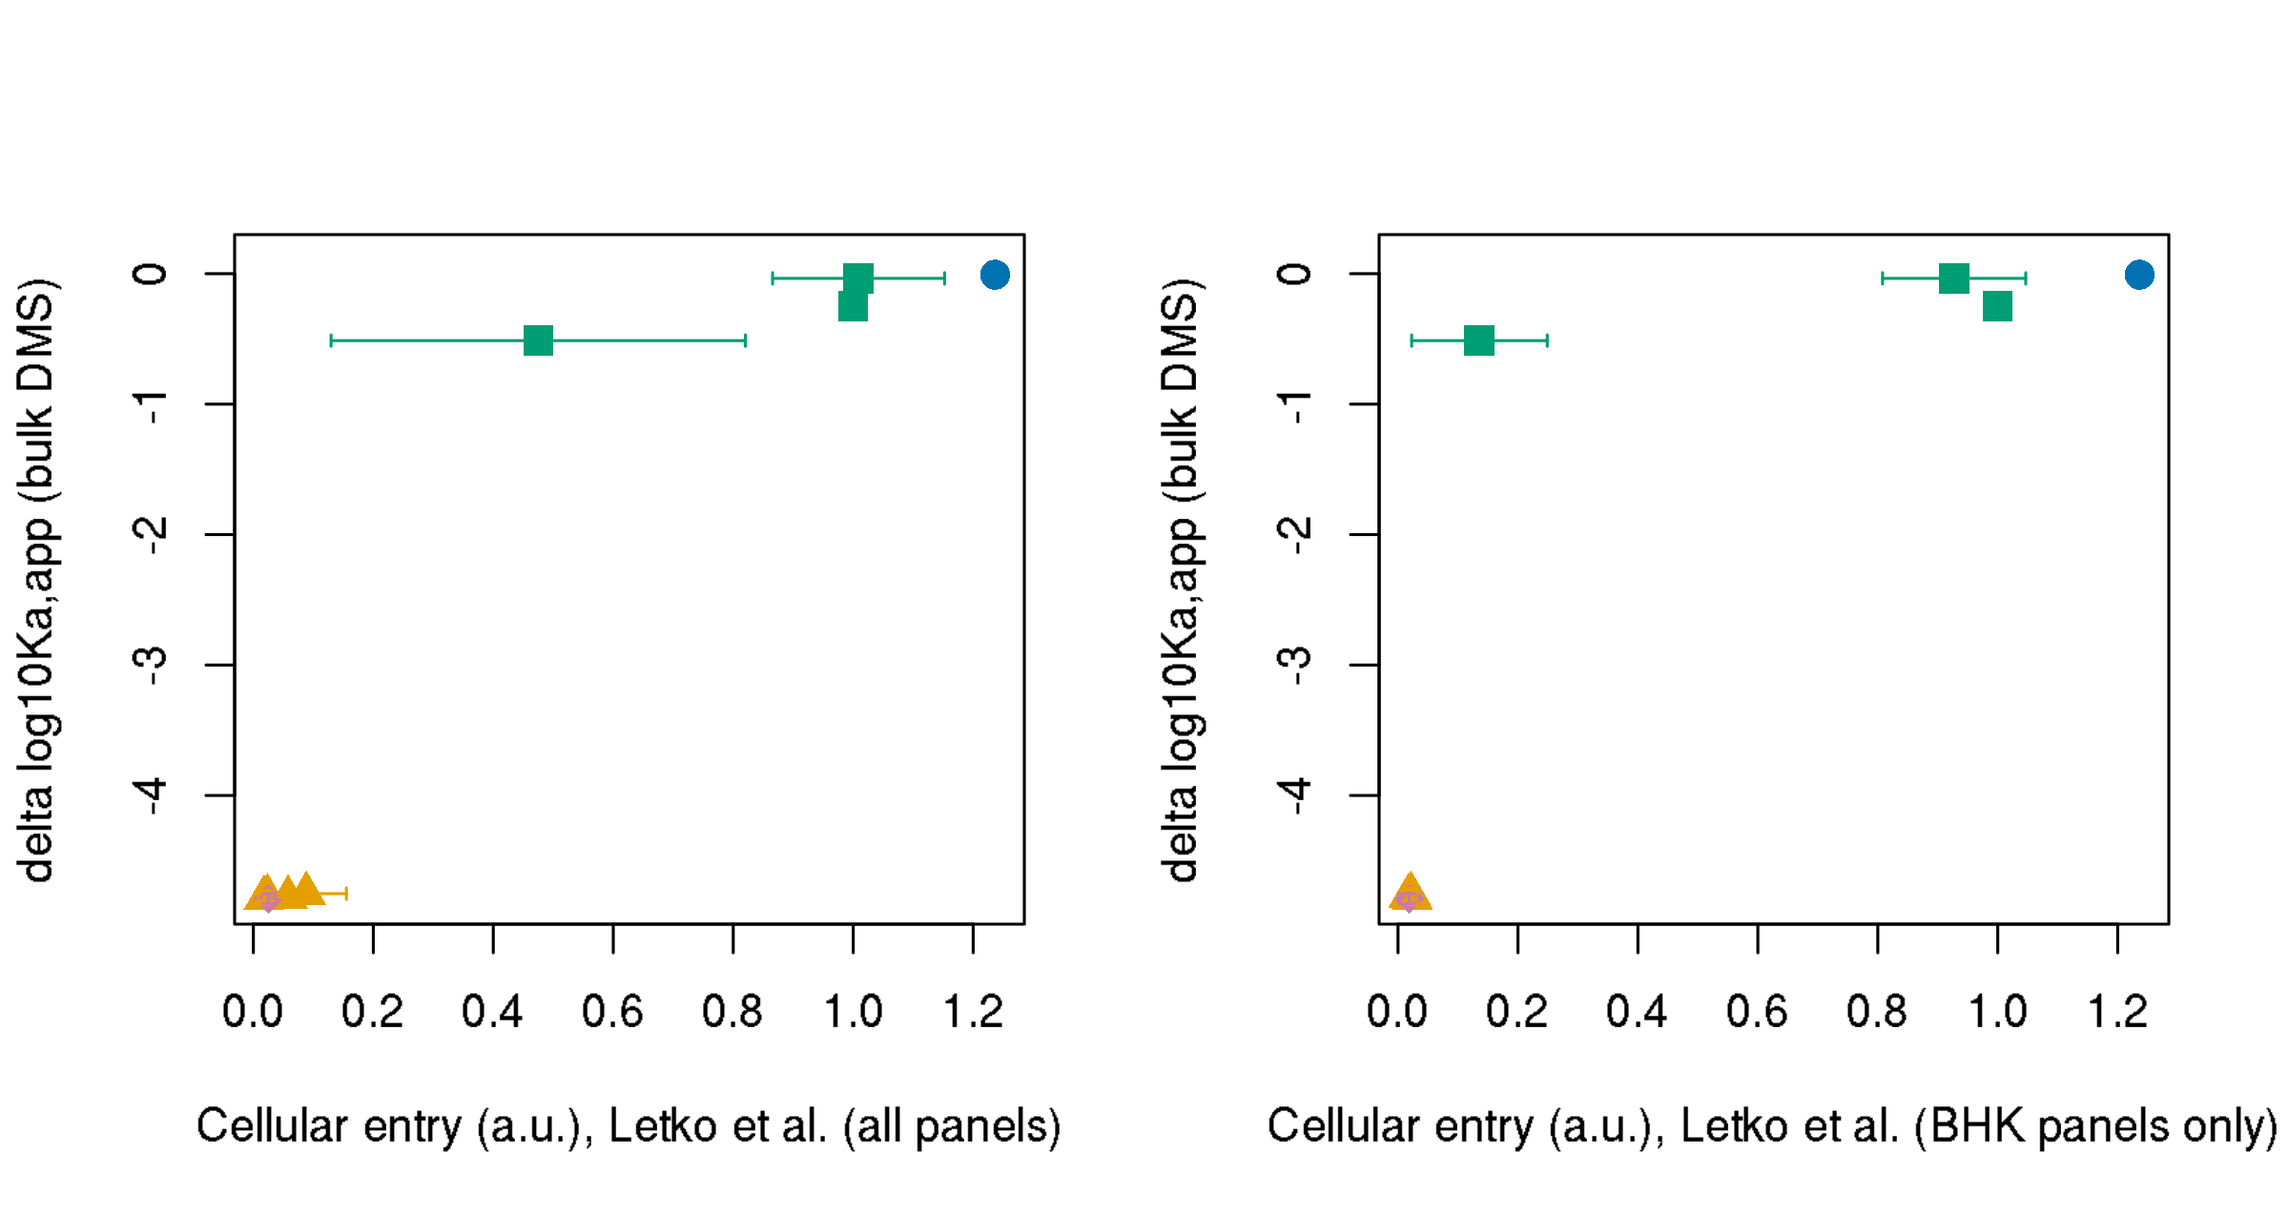
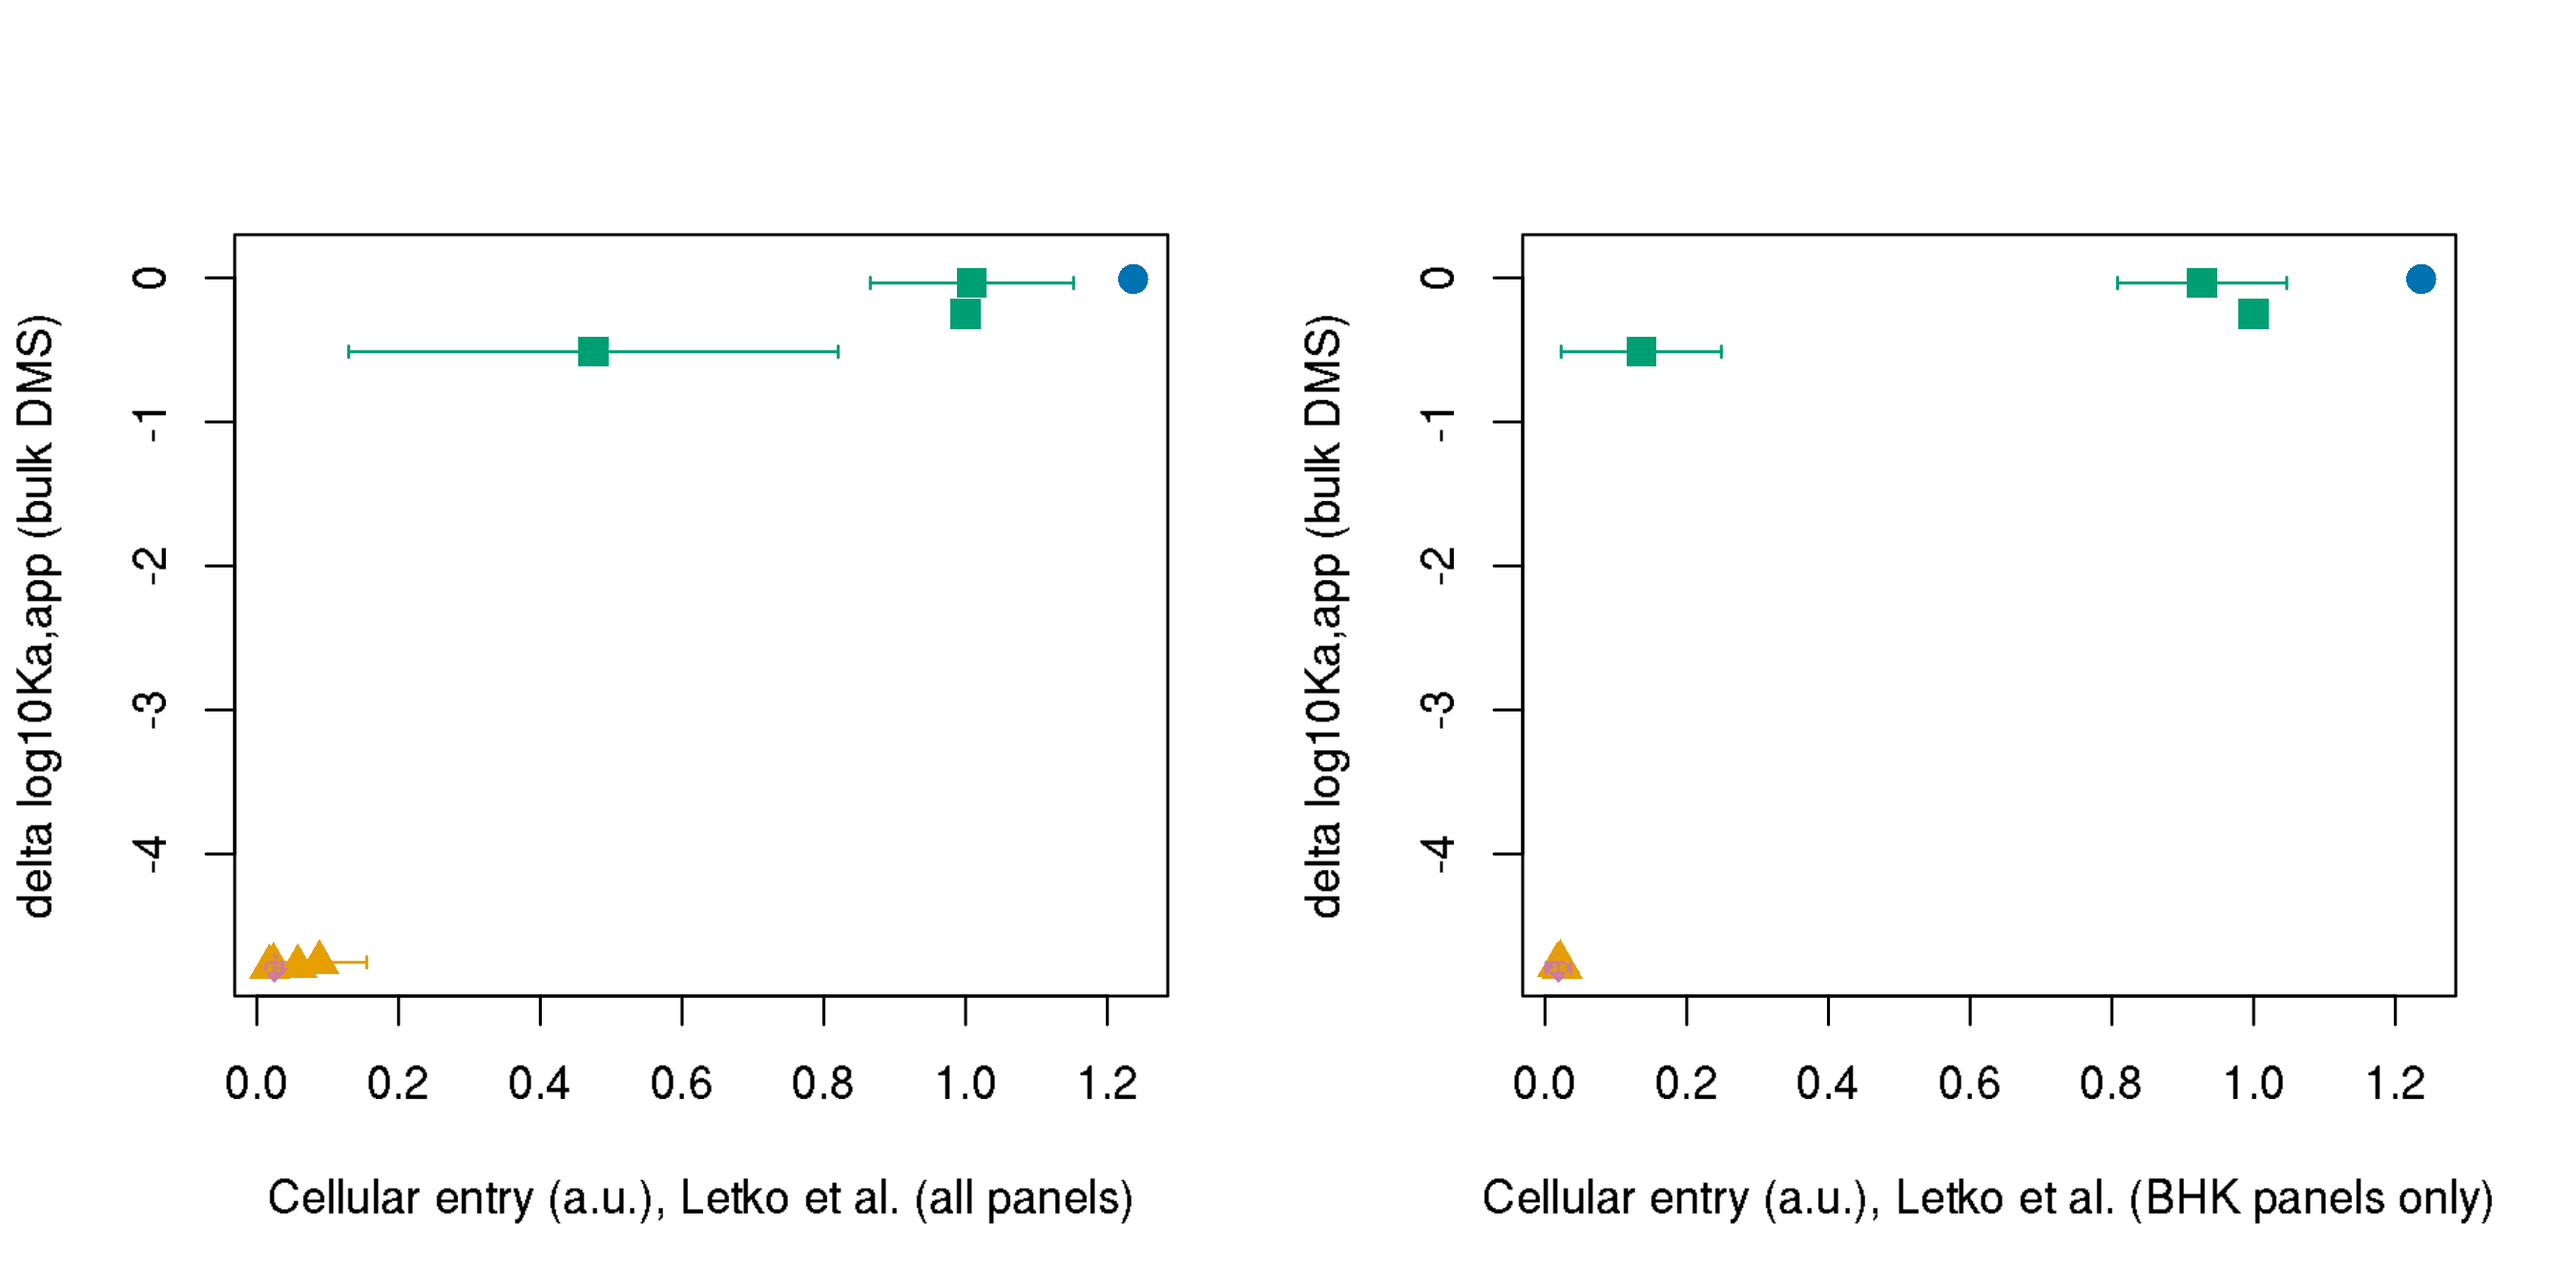
Update typos, formatting, Letko validation

diff --git a/results/summary/single_mut_effects.md b/results/summary/single_mut_effects.md
@@ -8,12 +8,8 @@ This notebook reads in the coefficients from the global epistasis fits
 for binding and expression. We assess correlations between models and
 directly measured single mutants to decide on which models to use moving
 forward. We then consolidate our final mutant function scores data
-table. (Finally, it generates some basic summary figures, including
-distributions of mutational effects and summaries of the phenotypes of
-the sarbecovirus homolog RBDs, and validates these measurements with
-comparisons to isogenic and literature reported functional
-measurements.) (Parentheticla stuff still work in progress, so you won’t
-see all of this completed here, yet\!)
+table. Finally, we validate our DMS measurements via comparison to
+isogenic and literature reported functional measurements.
 
 ``` r
 require("knitr")
@@ -202,7 +198,7 @@ Next, for the global epistasis models built on the binding measurements,
 let’s look at the correlation between model coefficients inferred from
 lib1 and lib2 binding measurements. We look at the model coefficients
 both on the “observed” log<sub>10</sub>(*K*<sub>A,app</sub>) and
-underlying “latent” scales, as well as without any global epistasiis
+underlying “latent” scales, as well as without any global epistasis
 nonlinearity.
 
 ``` r
@@ -678,6 +674,7 @@ plot(x,y,pch=16,col="#00000067",xlab="lib1 beta (no nonlinearity)",ylab="lib2 be
 ```
 
 <img src="single_mut_effects_files/figure-gfm/betas_expr_lib1_v_lib2-1.png" style="display: block; margin: auto;" />
+
 The observed-scale plots show some obvious errant fit points with large
 positive predicted effects. Let’s filter these points to be NA in the
 library in which they were assigned these large values, and look at
@@ -785,7 +782,7 @@ plot(ecdf(betas[mutant!="*" & wildtype!=mutant,n_bc_1mut_expr_lib1+n_bc_1mut_exp
 abline(v=median(betas[mutant!="*" & wildtype!=mutant,n_bc_1mut_expr_lib1+n_bc_1mut_expr_lib2]),lty=2);abline(h=0.5,lty=2)
 ```
 
-![](single_mut_effects_files/figure-gfm/expr_effects_direct_singles-1.png)<!-- -->
+<img src="single_mut_effects_files/figure-gfm/expr_effects_direct_singles-1.png" style="display: block; margin: auto;" />
 
 ``` r
 invisible(dev.print(pdf, paste(config$single_mut_effects_dir,"/coverage-ecdf_expr.pdf",sep="")))
@@ -826,7 +823,7 @@ outside of the PacBio sequencing window, or contain some other artifact
 – we are able to identify and discard these in the case of wildtype
 observations, but for any mutant variant, we cannot distinguish when
 this is happening at face value. Therefore, direct single measurements
-of expression effects of mutation are likely conflated wiith these types
+of expression effects of mutation are likely conflated with these types
 of additional factors that we cannot identify, whereas the global
 epistasis decomposition averages across all backgrounds containing a
 mutation, generating improved estimates of mutational effects. We also
@@ -958,7 +955,7 @@ homologs <- data.table(homolog=factor(c("SARS-CoV-2","GD-Pangolin","RaTG13","SAR
 #add color column to homologs, by clade
 cbPalette <- c("#999999", "#E69F00", "#56B4E9", "#009E73", "#F0E442", "#0072B2", "#D55E00", "#CC79A7")
 homologs$clade_color <- as.character(NA); homologs[clade=="Clade 1",clade_color := cbPalette[4]]; homologs[clade=="Clade 2",clade_color := cbPalette[2]]; homologs[clade=="Clade 3",clade_color := cbPalette[8]]; homologs[clade=="SARS-CoV-2",clade_color := cbPalette[6]]
-#add plottiing character to homologs, by clade
+#add plotting character to homologs, by clade
 homologs$clade_pch <- as.numeric(NA); homologs[clade=="Clade 1",clade_pch := 15]; homologs[clade=="Clade 2",clade_pch := 17]; homologs[clade=="Clade 3",clade_pch := 18]; homologs[clade=="SARS-CoV-2",clade_pch  := 16]
 
 
@@ -1030,12 +1027,12 @@ in `data/isogenic_titrations`. We convert the *K*<sub>D,app</sub>
 measurements into our log<sub>10</sub>(*K*<sub>A,app</sub>) scale,
 censoring the nonbinders to the same value censored in the bulk
 experiments (and removing the nonsensical SE estimates on these values
-since they were the bounded Kd fit, anyway), and propagating the
-titration curve fit estimate of standard error in the Kd measurement. We
-then plot isogenic versus bulk delta\_log10Ka versus SARS-CoV-2
-wildtype. We can see on the left, below, that our isogenic titrations of
-these homologs correlate extremely well with the measurements we made in
-the bulk DMS assay.
+since they were the bounded *K*<sub>D,app</sub> fit, anyway), and
+propagating the titration curve fit estimate of standard error in the
+*K*<sub>D,app</sub> measurement. We then plot isogenic versus bulk
+log<sub>10</sub>(*K*<sub>A,app</sub>) measurements. We can see on the
+left, below, that our isogenic titrations of these homologs correlate
+extremely well with the measurements we made in the bulk DMS assay.
 
 We repeat this plotting for the bulk DMS expression data, which does not
 validate as well in the isogenic measurements – this is more or less
@@ -1092,27 +1089,70 @@ whether or not we include the additional Vero cells measurements.
 (Should we “break” the y-axis to more clearly present these data?)
 
 <img src="single_mut_effects_files/figure-gfm/homologs_DMS_v_functional_pvirus_entry-1.png" style="display: block; margin: auto;" />
-\#\# Relationship between expression and binding fits at a per-barcode
-level
+We’ll also output these comparisons in tabular form
+
+``` r
+kable(homologs[!is.na(Letko_mean_entry_all) & !is.na(bind_avg),.(homolog, clade, bind_avg, bind_SEM,
+                                                                               Letko_mean_entry_all, Letko_SEM_entry_all, Letko_mean_entry_BHK,
+                                                                               Letko_SEM_entry_BHK)],
+      col.names=c("Homolog","Clade","DMS delta-log10Ka","SE","Letko entry, all (a.u.)","SE","Letko entry, BHK (a.u.)","SE"))
+```
+
+| Homolog    | Clade      | DMS delta-log10Ka |        SE | Letko entry, all (a.u.) |        SE | Letko entry, BHK (a.u.) |        SE |
+| :--------- | :--------- | ----------------: | --------: | ----------------------: | --------: | ----------------------: | --------: |
+| SARS-CoV-2 | SARS-CoV-2 |       \-0.0078865 | 0.0011539 |               1.2364874 |        NA |               1.2364874 |        NA |
+| SARS-CoV-1 | Clade 1    |       \-0.2498259 | 0.0399424 |               1.0000000 |        NA |               1.0000000 |        NA |
+| WIV16      | Clade 1    |       \-0.0358512 | 0.0184988 |               1.0089470 | 0.1433465 |               0.9273106 | 0.1193789 |
+| LYRa11     | Clade 1    |       \-0.5129461 | 0.0405689 |               0.4749058 | 0.3453226 |               0.1358062 | 0.1130384 |
+| ZC45       | Clade 2    |       \-4.7885586 | 0.0378735 |               0.0183205 | 0.0094127 |               0.0251704 | 0.0111820 |
+| ZXC21      | Clade 2    |       \-4.7842203 | 0.0503678 |               0.0175247 | 0.0093394 |               0.0241882 | 0.0113342 |
+| HKU3-1     | Clade 2    |       \-4.7527143 | 0.0438999 |               0.0882798 | 0.0667876 |               0.0215171 | 0.0031632 |
+| Rf1        | Clade 2    |       \-4.7714134 | 0.0356232 |               0.0235121 | 0.0063857 |               0.0172600 | 0.0022503 |
+| Rp3        | Clade 2    |       \-4.7818337 | 0.0462476 |               0.0578225 | 0.0350887 |               0.0228068 | 0.0039194 |
+| BM48-31    | Clade 3    |       \-4.7907591 | 0.0382781 |               0.0246539 | 0.0116363 |               0.0186769 | 0.0172927 |
+
+We can also validate our *isogenic* measurements against the Letko et
+al. phenotypes.
+
+<img src="single_mut_effects_files/figure-gfm/homologs_isogenic_v_functional_pvirus_entry-1.png" style="display: block; margin: auto;" />
+
+Table of isogenic measurements vs Letko phenotype:
+
+``` r
+kable(homologs[!is.na(Letko_mean_entry_all) & !is.na(isogenic_delta_log10Ka),.(homolog, clade, isogenic_delta_log10Ka, isogenic_SE_log10Ka,
+                                                                               Letko_mean_entry_all, Letko_SEM_entry_all, Letko_mean_entry_BHK,
+                                                                               Letko_SEM_entry_BHK)],
+      col.names=c("Homolog","Clade","Isogenic delta-log10Ka","SE","Letko entry, all (a.u.)","SE","Letko entry, BHK (a.u.)","SE"))
+```
+
+| Homolog    | Clade      | Isogenic delta-log10Ka |        SE | Letko entry, all (a.u.) |        SE | Letko entry, BHK (a.u.) |        SE |
+| :--------- | :--------- | ---------------------: | --------: | ----------------------: | --------: | ----------------------: | --------: |
+| SARS-CoV-2 | SARS-CoV-2 |              0.0000000 | 0.0266395 |               1.2364874 |        NA |               1.2364874 |        NA |
+| SARS-CoV-1 | Clade 1    |            \-0.4811298 | 0.0226053 |               1.0000000 |        NA |               1.0000000 |        NA |
+| LYRa11     | Clade 1    |            \-0.6570148 | 0.0183569 |               0.4749058 | 0.3453226 |               0.1358062 | 0.1130384 |
+| HKU3-1     | Clade 2    |            \-4.4127033 |        NA |               0.0882798 | 0.0667876 |               0.0215171 | 0.0031632 |
+| BM48-31    | Clade 3    |            \-4.4127033 |        NA |               0.0246539 | 0.0116363 |               0.0186769 | 0.0172927 |
+
+## Relationship between expression and binding fits at a per-barcode level
 
 In theory, titration assays should normalize out expression effects of
-mutations, and therefore be less susceptiible to expression-induced
+mutations, and therefore be less susceptible to expression-induced
 artifacts in binding scores than traditional single-concentration yeast
-diisplay assays. We will dig into this a bit more in the
+display assays. We will dig into this a bit more in the
 `structure_function.Rmd` notebook for our single-mutant effect
-parameters, but the general premise is that in single-concentration
-yeast display assays, simple enhancement of surface expression leads to
-higher ligand labeling, even if the underlying *K*<sub>D</sub> is
-unchanged in the mutant variant. This leads to *uninteresting* simple
-correlation between expression and binding in DMS type data. In
-contrast, our binding phenotype is determined from a self-contained
-titration series for each barcode, the response plateau and baseline of
-which can vary as fit parameters. This assay should therefore be less
-susceptible to expression artifacts, because global expression changes
-can be accounted for with variation in the response parameter –
-therefore, any remaining correlation between expression and binding
-should be due to actual biological correlation (i.e. mutations that
-destabilize the protein will also intrinsically decrease the
+parameters, but the general premise is that in classic
+single-concentration yeast display assays, simple enhancement of surface
+expression leads to higher ligand labeling, even if the underlying
+*K*<sub>D</sub> is unchanged in the mutant variant. This leads to
+*uninteresting* simple correlation between expression and binding in DMS
+type data. In contrast, our binding phenotype is determined from a
+self-contained titration series for each barcode, for which the response
+plateau and baseline can vary as fit parameters. This assay should
+therefore be less susceptible to expression artifacts, because global
+expression changes can be accounted for with variation in the response
+parameter – therefore, any remaining correlation between expression and
+binding should be due to actual biological correlation (i.e. mutations
+that destabilize the protein will also intrinsically decrease the
 thermodynamic affinity). One premise of this argument is that the
 response parameter of the titration curve fits correlates with
 expression effects.
